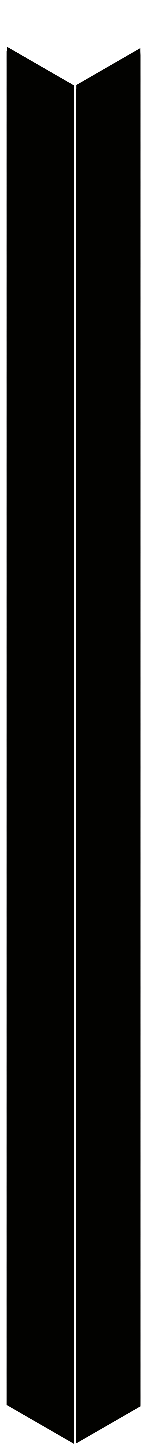
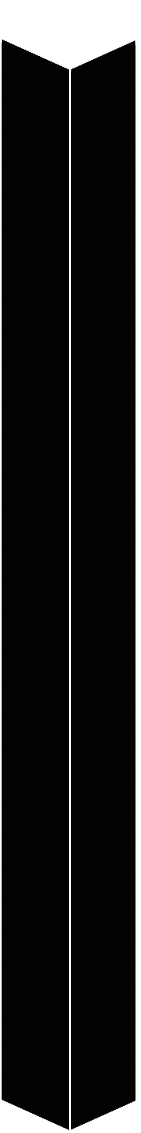
completes cursor effect

Changed region(s): [[0.0, 0.0309, 0.6809, 1.0], [0.9362, 0.0309, 0.9929, 0.9885]]

diff --git a/src/animations/FourBars.jsx b/src/animations/FourBars.jsx
@@ -9,35 +9,35 @@ import Bar from "../assets/NegBar.png";
 import HalfBar from "../assets/NegBarHalf.png";
 
 export default function AltFourBars() {
-  const { theme } = useContext(AppState);
+  const { theme, xPosition, yPosition } = useContext(AppState);
 
   useEffect(() => {
     let paintTl = gsap.timeline({ defaults: { ease: "power4" } });
 
-    gsap.to("#Bar1, #HalfBar", {
-      duration: 1,
-      ease: "bounce",
-      x: "-200px",
-      y: "-40px",
-    });
-    gsap.to("#Bar2", {
-      duration: 1,
-      ease: "bounce",
-      x: "-65px",
-      y: "40px",
-    });
-    gsap.to("#Bar3", {
-      duration: 1,
-      ease: "bounce",
-      x: "65px",
-      y: "-40px",
-    });
-    gsap.to("#Bar4", {
-      duration: 1,
-      ease: "bounce",
-      x: "200px",
-      y: "40px",
-    });
+    // gsap.to("#Bar1, #HalfBar", {
+    //   duration: 1,
+    //   ease: "bounce",
+    //   x: "-200px",
+    //   y: "-40px",
+    // });
+    // gsap.to("#Bar2", {
+    //   duration: 1,
+    //   ease: "bounce",
+    //   x: "-65px",
+    //   y: "40px",
+    // });
+    // gsap.to("#Bar3", {
+    //   duration: 1,
+    //   ease: "bounce",
+    //   x: "65px",
+    //   y: "-40px",
+    // });
+    // gsap.to("#Bar4", {
+    //   duration: 1,
+    //   ease: "bounce",
+    //   x: "200px",
+    //   y: "40px",
+    // });
 
     paintTl
       .fromTo(
@@ -77,16 +77,6 @@ export default function AltFourBars() {
         "-=2.4"
       );
 
-    gsap.to("#Bar1, #HalfBar, #Bar2, #Bar3, #Bar4", {
-      duration: 5,
-      y: 0,
-      repeat: -1,
-      yoyo: true,
-      ease: "bounce.inOut",
-      delay: 1,
-      // filter: "blur(5px)"
-    });
-
     gsap.to(".stripe", {
       duration: 3,
       y: -10,
@@ -95,26 +85,52 @@ export default function AltFourBars() {
       delay: 3,
       ease: "sine.inOut",
       stagger: 0.3,
-      // filter: "invert(1)"
     });
   }, []);
 
+  const handleMouseMove = (e) => {
+    let x = e.pageX - window.innerWidth / 2;
+    let y = e.pageY - window.innerHeight / 2;
+    gsap.to("#Bar2, #Bar3, #Bar4", {
+      duration: 1,
+      ease: "elastic.out",
+      x: x / 15,
+      y: y / 15,
+      stagger: 0.1
+    });
+    gsap.to("#Bar1, #HalfBar", {
+      duration: 1,
+      ease: "elastic.out",
+      x: x / 15,
+      y: y / 15,
+    });
+  };
+
   return (
-    <div className="flex justify-center w-screen relative">
+    <div
+      className="flex justify-center h-screen w-screen relative"
+      onMouseMove={(e) => handleMouseMove(e)}
+    >
       {/*  */}
       {/* Bar1 + Bar3 */}
       {/*  */}
-      <div id="Bar1" className="bar h-screen flex items-center absolute">
+      <div
+        id="Bar1"
+        className="bar h-screen flex items-center bottom-[4%] left-[35%] absolute"
+      >
         <img
           src={Bar}
-          className={`h-5/6 w-full ${theme.value === "light" && "invert"}`}
+          className={`h-3/5 select-none w-full ${theme.value === "light" && "invert"}`}
           alt="bar"
         />
       </div>
-      <div id="Bar3" className="bar h-screen absolute flex items-center">
+      <div
+        id="Bar3"
+        className="bar h-screen absolute flex bottom-[4%] left-[55%] items-center"
+      >
         <img
           src={Bar}
-          className={`h-5/6 w-full ${theme.value === "light" && "invert"}`}
+          className={`h-3/5 select-none w-full ${theme.value === "light" && "invert"}`}
           alt="bar"
         />
       </div>
@@ -122,18 +138,29 @@ export default function AltFourBars() {
       {/* BlueStripe + RedStripe */}
       {/*  */}
       <div id="BlueStripe" className="stripe w-screen h-screen absolute">
-        <img src={BlueStripe} className="w-full h-full" alt="BlueStripe" />
+        <img
+          src={BlueStripe}
+          className={`w-full h-full select-none ${theme.value === "light" && "invert"}`}
+          alt="BlueStripe"
+        />
       </div>
       <div id="RedStripe" className="stripe h-screen w-screen absolute">
-        <img src={RedStripe} className="w-full h-full" alt="RedStripe" />
+        <img
+          src={RedStripe}
+          className={`w-full h-full select-none ${theme.value === "light" && "invert"}`}
+          alt="RedStripe"
+        />
       </div>
       {/*  */}
       {/* Bar4 */}
       {/*  */}
-      <div id="Bar4" className="bar h-screen flex items-center absolute">
+      <div
+        id="Bar4"
+        className="bar h-screen flex items-center top-[4%] left-[65%] absolute"
+      >
         <img
           src={Bar}
-          className={`h-5/6 w-full ${theme.value === "light" && "invert"}`}
+          className={`h-3/5 w-full select-none ${theme.value === "light" && "invert"}`}
           alt="bar"
         />
       </div>
@@ -141,20 +168,30 @@ export default function AltFourBars() {
       {/* Yellow Stripe */}
       {/*  */}
       <div id="YellowStripe" className="stripe h-screen w-screen absolute">
-        <img src={YellowStripe} className="w-full h-full" alt="YellowStripe" />
+        <img
+          src={YellowStripe}
+          className={`w-full h-full select-none ${theme.value === "light" && "invert"}`}
+          alt="YellowStripe"
+        />
       </div>
       {/* Bar 1.5 + Bar2 */}
-      <div id="HalfBar" className="bar h-screen flex items-center absolute ">
+      <div
+        id="HalfBar"
+        className="bar h-screen flex items-center bottom-[4%] left-[35%] absolute "
+      >
         <img
           src={HalfBar}
-          className={`h-5/6 w-full ${theme.value === "light" && "invert"}`}
+          className={`h-3/5 w-full select-none ${theme.value === "light" && "invert"}`}
           alt="bar"
         />
       </div>
-      <div id="Bar2" className="z-[5] bar h-screen flex items-center absolute">
+      <div
+        id="Bar2"
+        className="z-[5] bar h-screen flex items-center top-[4%] left-[45%] absolute"
+      >
         <img
           src={Bar}
-          className={`h-5/6 w-full ${theme.value === "light" && "invert"}`}
+          className={`h-3/5 w-full select-none ${theme.value === "light" && "invert"}`}
           alt="bar"
         />
       </div>

diff --git a/src/App.jsx b/src/App.jsx
@@ -20,31 +20,7 @@ import Title2 from "./components/Title2";
 gsap.registerPlugin(ScrollTrigger);
 
 function App() {
-  const { theme, xPosition, yPosition, showCursor, selected } =
-    useContext(AppState);
-
-  // useEffect(() => {
-  //   if (window.matchMedia("(prefers-colorScheme: 'light')").matches) {
-  //     theme.value = "light";
-  //   } else {
-  //     theme.value = "dark";
-  //   }
-  // }, []);
-
-  // gsap.fromTo(
-  //   "#tabSwitcher",
-  //   { x: "-1000px" },
-  //   {
-  //     x: 0,
-  //     scrollTrigger: {
-  //       trigger: "#tabSwitcher",
-  //       start: "top 50%",
-  //       end: "bottom 60%",
-  //       markers: true,
-  //       scrub: 1,
-  //     },
-  //   }
-  // );
+  const { theme } = useContext(AppState);
 
   useEffect(() => {
     theme.value === "dark"
@@ -52,33 +28,12 @@ function App() {
       : document.documentElement.classList.remove("dark");
   }, [theme.value]);
 
-  const handleMouseEnter = () => {
-    showCursor.value = true;
-  };
-
-  const handleMouseLeave = () => {
-    showCursor.value = false;
-  };
-
-  // const handleMouseMove = (e) => {
-  //   batch(() => {
-  //     xPosition.value = e.pageX;
-  //     yPosition.value = e.pageY;
-  //   });
-  // };
-
   return (
-    <div
-      className="dark:bg-dark bg-light"
-      // onMouseMove={(e) => handleMouseMove(e)}
-      onMouseEnter={handleMouseEnter}
-      onMouseLeave={handleMouseLeave}
-    >
+    <div className="dark:bg-dark bg-light">
       {/* <Cursor /> */}
-      {/* <Scroll /> */}
-      {/* <ThemeController /> */}
-      <FourBars />
+      <ThemeController />
       <Title2 />
+      <FourBars />
       {/* <Title /> */}
       {/* <TabSwitcher /> */}
       {/* {selected.value === "Portfolio" && <PortfolioHome />} */}

diff --git a/src/animations/DarkCircle.jsx b/src/animations/DarkCircle.jsx
@@ -42,26 +42,26 @@ export default function DarkCircle() {
       .to("#layer9", { background: `#${darkValues[0].hex}` });
   }, [chosen.value]);
 
-  const handleMouseEnter = () => {
-    showCursor.value = true;
-  };
+  // const handleMouseEnter = () => {
+  //   showCursor.value = true;
+  // };
 
-  const handleMouseLeave = () => {
-    showCursor.value = false;
-    const resetTl = gsap.timeline({
-      defaults: { ease: "elastic", x: 0, y: 0 },
-      duration: 0.2,
-    });
-    resetTl
-      .to("#layer8", {})
-      .to("#layer7", {})
-      .to("#layer6", {})
-      .to("#layer5", {})
-      .to("#layer4", {})
-      .to("#layer3", {})
-      .to("#layer2", {})
-      .to("#layer1", {});
-  };
+  // const handleMouseLeave = () => {
+  //   showCursor.value = false;
+  //   const resetTl = gsap.timeline({
+  //     defaults: { ease: "elastic", x: 0, y: 0 },
+  //     duration: 0.2,
+  //   });
+  //   resetTl
+  //     .to("#layer8", {})
+  //     .to("#layer7", {})
+  //     .to("#layer6", {})
+  //     .to("#layer5", {})
+  //     .to("#layer4", {})
+  //     .to("#layer3", {})
+  //     .to("#layer2", {})
+  //     .to("#layer1", {});
+  // };
 
   console.log(showCursor.value);
 
@@ -89,8 +89,6 @@ export default function DarkCircle() {
   return (
     <div
       onMouseMove={(e) => handleMouseMove(e)}
-      //   onMouseEnter={handleMouseEnter}
-    //   onMouseLeave={handleMouseLeave}
       className="flex h-screen w-screen absolute justify-center items-center"
     >
       <div
